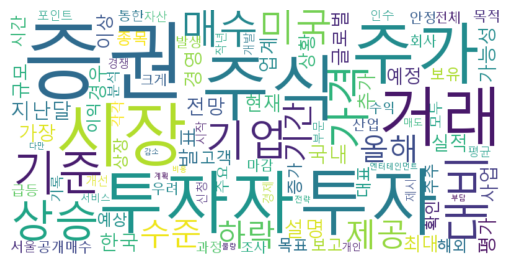
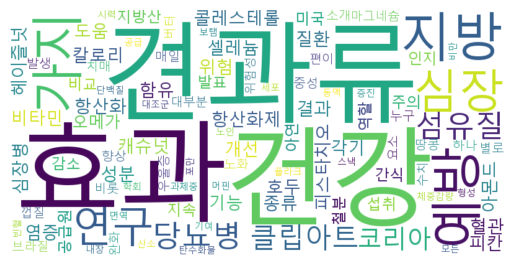
2023.3.16 - 개발 완료

diff --git a/demo/myproject/static/common.js b/demo/myproject/static/common.js
@@ -2,7 +2,7 @@ $(document).ready(function () {
    for(let i =0; i< 50; i++){
         $('#tb').append('<tr><td class="nth_number"></td><td class="data"></td></tr>');
    }
-    for(let i = 0; i < $('.nth_number').length; i++){
+    for(let i =0; i < $('.nth_number').length; i++){
         $('.nth_number')[i].innerText = i + "위"
     }
     
@@ -31,8 +31,8 @@ $(document).ready(function () {
                         $('.data')[i].innerText = a
                         asdf.push(a)
                     }
+                    console.log(asdf)
                     localStorage.setItem("key", asdf);
-                    console.log($("#go").val()  == "보기")
                     setInterval(function(){
                         $("#go").css("background-color", "#00ef01")
                         if ($("#go").val() == "보기") {

diff --git a/demo/myproject/app.py b/demo/myproject/app.py
@@ -1,21 +1,24 @@
-from bs4 import BeautifulSoup
-from flask import Flask, render_template, request
-import pymysql
-import time
-from flask_sqlalchemy import SQLAlchemy
-from konlpy.tag import Okt
-import numpy as np  # 이미지 데이터를 다루기 위해
-import pandas as pd  # 데이터를 다루기 위한 라이브러리
-from wordcloud import WordCloud
-from PIL import Image  # 이미지를 위한 라이브러리
-import os
-from collections import Counter
-import matplotlib.pyplot as plt
+#from bs4 import BeautifulSoup
 from selenium import webdriver
 from selenium.webdriver import ActionChains
 from selenium.webdriver.common.by import By
 from selenium.webdriver.common.keys import Keys
+import re
 
+import numpy as np  # 이미지 데이터를 다루기 위해
+import pandas as pd  # 데이터를 다루기 위한 라이브러리
+import time
+from PIL import Image  # 이미지를 위한 라이브러리
+from difflib import SequenceMatcher
+from flask import Flask, render_template, request
+import pymysql
+from flask_sqlalchemy import SQLAlchemy
+from wordcloud import WordCloud
+import os
+from collections import Counter
+import matplotlib.pyplot as plt
+from konlpy.tag import *
+from nltk.stem import PorterStemmer, LancasterStemmer
 
 #from sklearn.feature_extraction.text import CountVectorizer
 db = SQLAlchemy()
@@ -34,8 +37,8 @@ def index():
 # 크롤링 데이터를 insert하는 db 부분 ============================
 def insertDB(k, t, c1, c2, r):
     ret = []
-    db = pymysql.connect(host='localhost', user='root',
-                            port=,password='', charset='utf8', db='')
+    db = pymysql.connect(host='127.0.0.1', user='root',
+                            port=3310,password='1234', charset='utf8', db='mydb')
     curs = db.cursor()
     sqlInsert = """
         insert into mydb.CrawlingNaverArticles(KeyWord, Title, ChangeContents, Contents, Registration_Date ) values( '{KeyWord1}' ,  '{Title1}', '{Contents1}', '{Contents2}',  '{Registration_Date1}' );
@@ -48,9 +51,9 @@ def insertDB(k, t, c1, c2, r):
 # 워드 클라우드 부분 ============================
 
 def word(text):
-   # print("======== 워드클라우드 시작 dd2=======")
-    wordcloud = WordCloud(font_path="./static/malgun.ttf",max_words=100, width = 800 , height = 400 ,background_color='white').generate(text)
     
+    wordcloud = WordCloud(font_path="./static/malgun.ttf",max_words=100, width = 800 , height = 400 ,background_color='white').generate(text)
+
     plt.figure()
     plt.axis('off')
     plt.imshow(wordcloud, interpolation='bilinear')
@@ -70,13 +73,14 @@ def selectDB():
     key = kyeword['keyword']
     print(key)
     ret = []
-    db = pymysql.connect(host='localhost', user='',
-                            port=,password='', charset='utf8', db='')
+    db = pymysql.connect(host='master', user='root',
+                            port=3306,password='1234', charset='utf8', db='mydb')
     curs = db.cursor()
 
+   
     sqlInsert =  """ 
             SELECT ChangeContents
-            FROM  mydb.CrawlingNaverArticles
+            FROM  mydb.crawlingnaverarticles
             WHERE Contents LIKE '%{keyword1}%';
             """.format(keyword1=key)
     
@@ -85,33 +89,51 @@ def selectDB():
   
 
     for i in curs:
-        s = ''.join(map(str, i))
+        s = ''.join(map(str, i)).replace("\n", " ")
         ret.append(s)
-    
+
+
     text = ''.join(list(set(ret)))
+    
     last_arr = []
     arr = text.split(" ") 
+    deleteArray  = ["통해", "기준", "계획", "당시", "앞서", "올해", "진행", "제공", "지난해", "지난달","다른","현재", "관련","모두","가장", "라며", "이번","또한","거나", "이후", "우리", "지금","연합뉴스", "예상", "로서", "대해" , "사진", "오늘", "최근", "지난", "위해", "때문", "대한"] 
     
     for i in arr:
-        if i == "통해" or i == "지난해"  or i == "예상" or i == "사진"  or i == "오늘" or i == "최근" or i == "지난" or i == "위해"or i == "때문" or i == "대한" or i == "대해" or i == "이후" or i == "관련" or i == "라며" or i == "이번" or i == "또한" or i == "거나" :
+        if i in deleteArray:
             continue
         else:
             s = ''.join(map(str, i))
             last_arr.append(s)
-            
-    
+        
     text1 = ' '.join(last_arr)
-    
+    print(text1)
+    """
+    twt = Twitter()
+    worss = twt.pos(text1)
+    text_arr = []
+    for i in worss:
+        if  i[0] == "punctuation" and  i[0] == "Number" and i[0] == "Josa" and i[0] == "Foreign":
+            continue
+        elif i[0] == "@" or len(i[0]) > 1:
+            text_arr.append(i[0])
+
+
+
+    text2 = ''.join(text_arr).replace("\n", "")
+    print(text2)
+"""
     word(text1) 
+    
     strings = text1.split()
     
     test_list2 = []
     social_news_word_count = Counter(strings)
-    for i in social_news_word_count.most_common(50):
+    for i in social_news_word_count.most_common(51):
         test_list2.append(i)
 
-
-
+        
+    del test_list2[0]  
 
     db.commit()
     db.close()
